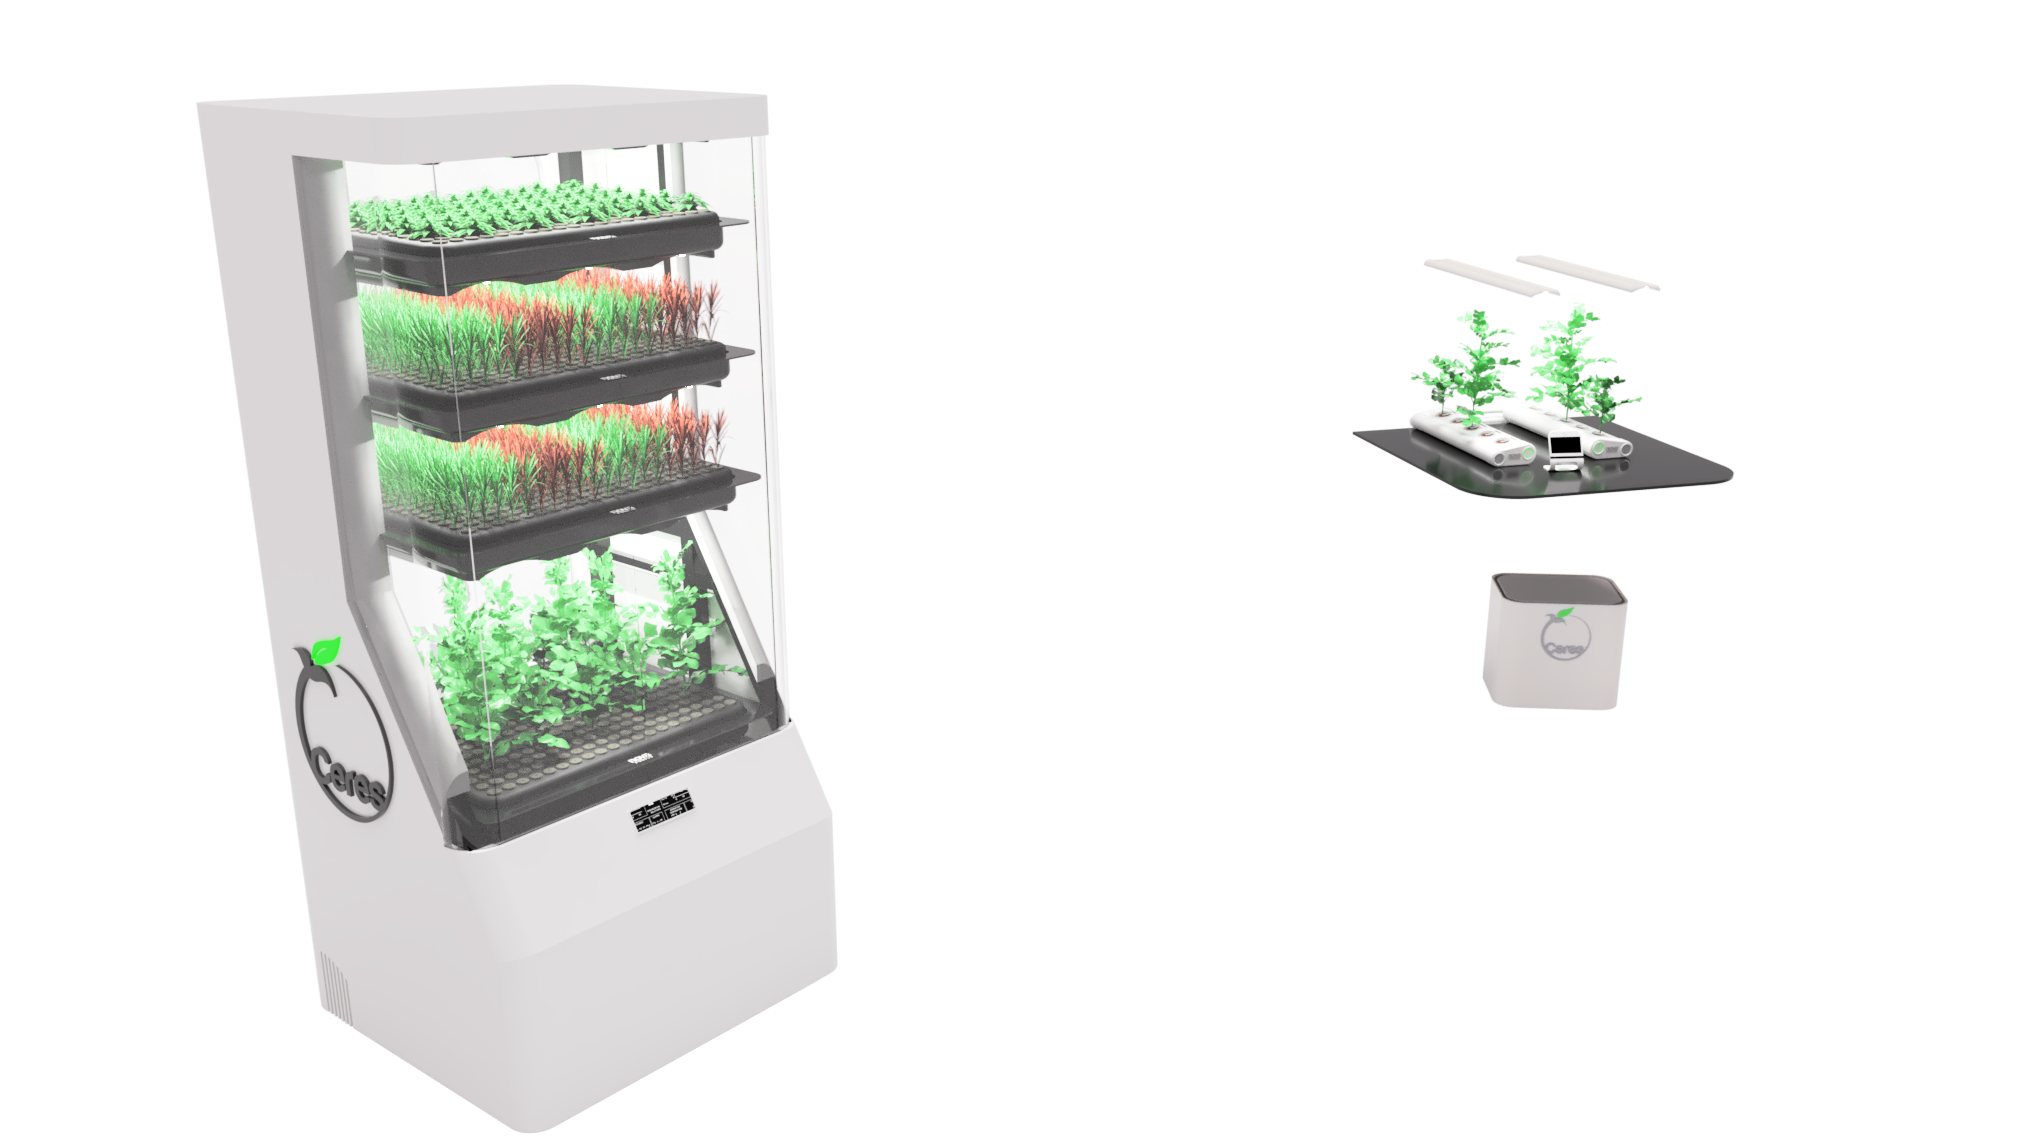
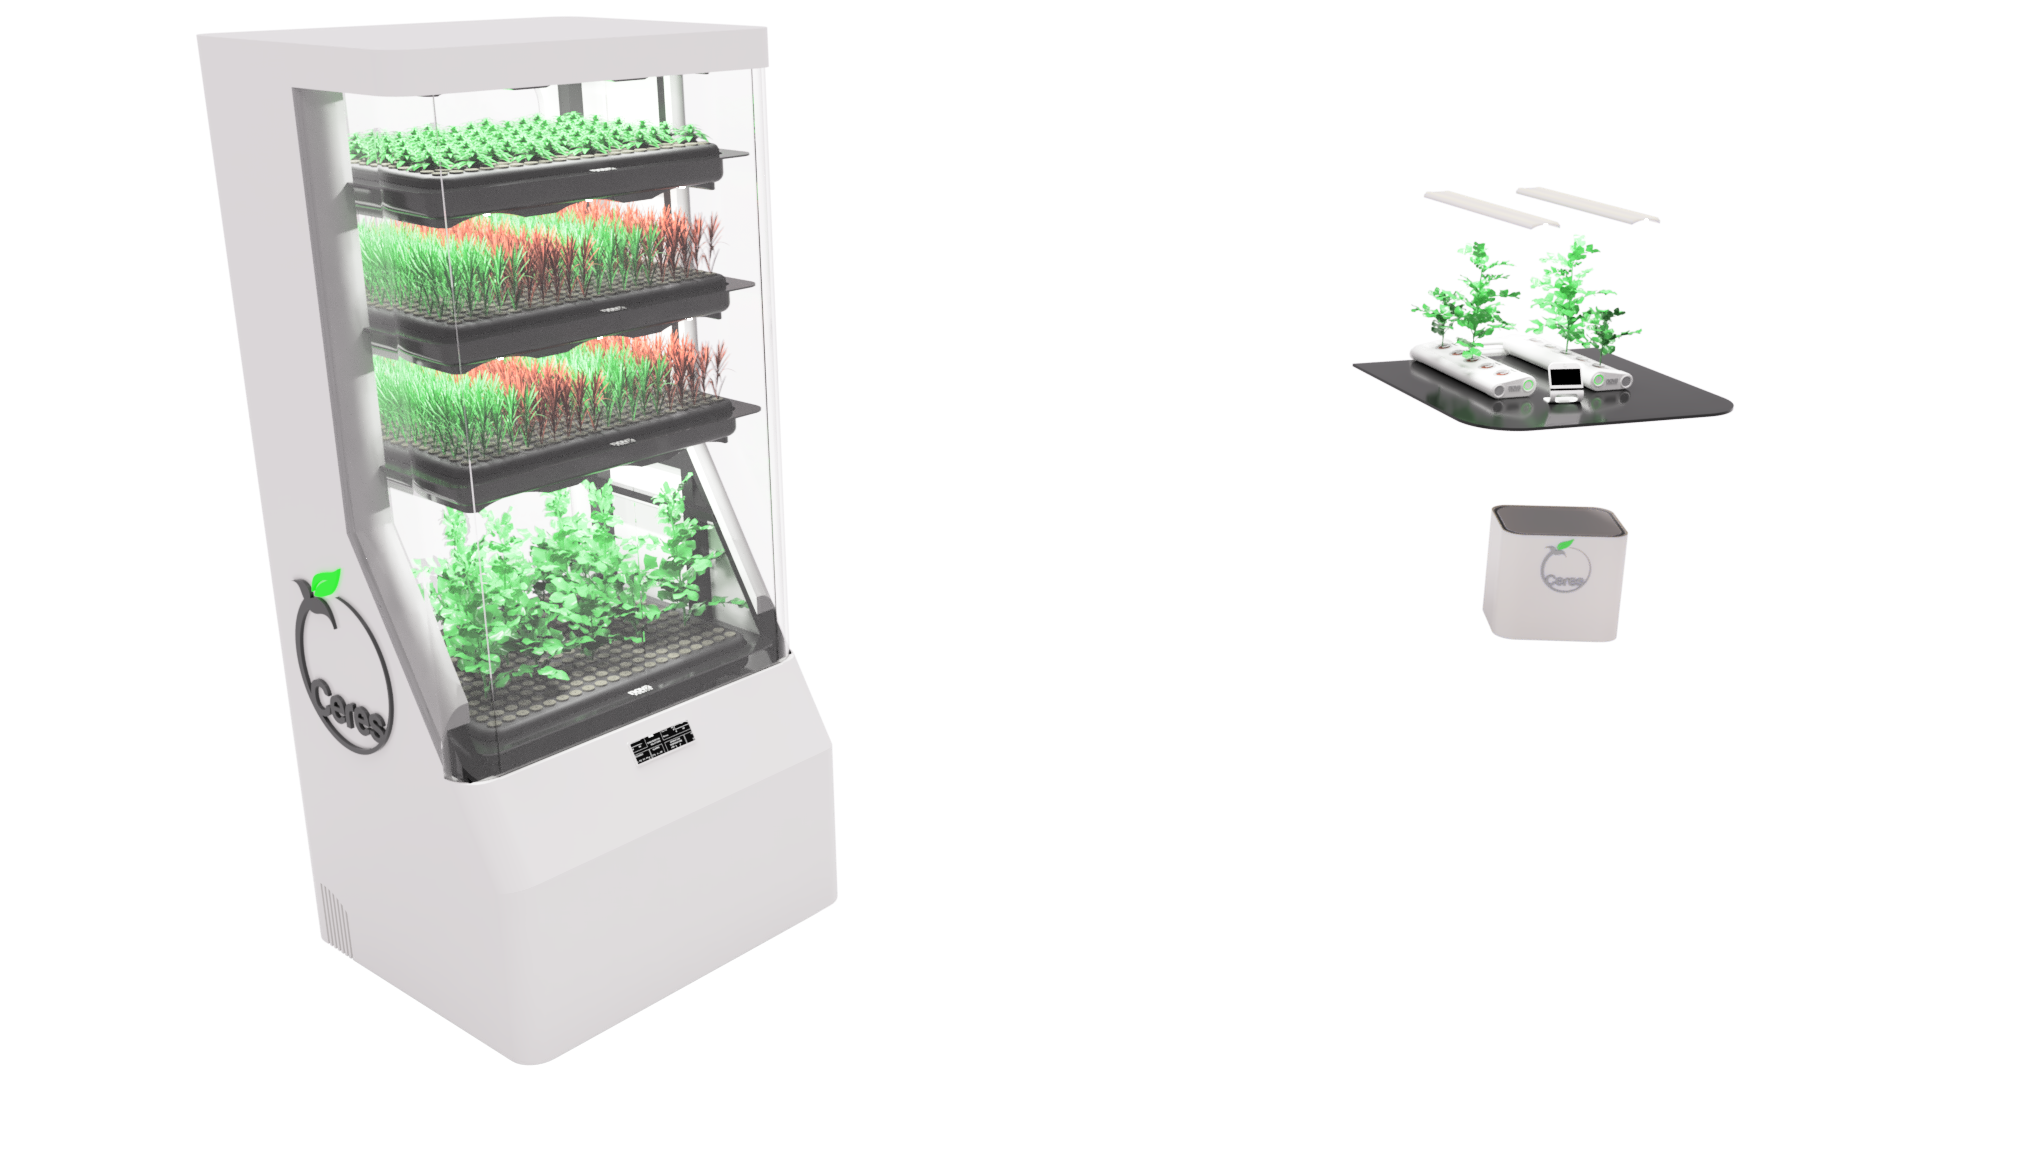
asd

Changed region(s): [[0.0932, 0.0, 0.4351, 1.0], [0.6527, 0.1532, 0.8703, 0.6436]]

diff --git a/index_2.html b/index_2.html
@@ -58,7 +58,7 @@
       <div class="mx-auto text-center">
         <h1 class="mx-auto my-0 text-lowercase">future is here</h1>
         <h2 class="text-white-50 mx-auto mt-2 mb-5">Grow any plant in any location, worry-free...</h2>
-        <a href="#about" class="btn btn-primary js-scroll-trigger">Get Started</a>
+        <a href="#about" class="btn btn-primary js-scroll-trigger">Let's germinate...</a>
       </div>
     </div>
   </header>
@@ -73,7 +73,7 @@
             <a href="http://startbootstrap.com/template-overviews/grayscale/">the preview page</a>. The theme is open source, and you can use it for any purpose, personal or commercial.</p>
         </div>
       </div>
-      <img src="img/ipad.png" class="img-fluid" alt="">
+      <img src="img\ceres_concept_designv1.png" class="img-fluid" alt="">
     </div>
   </section>
 
